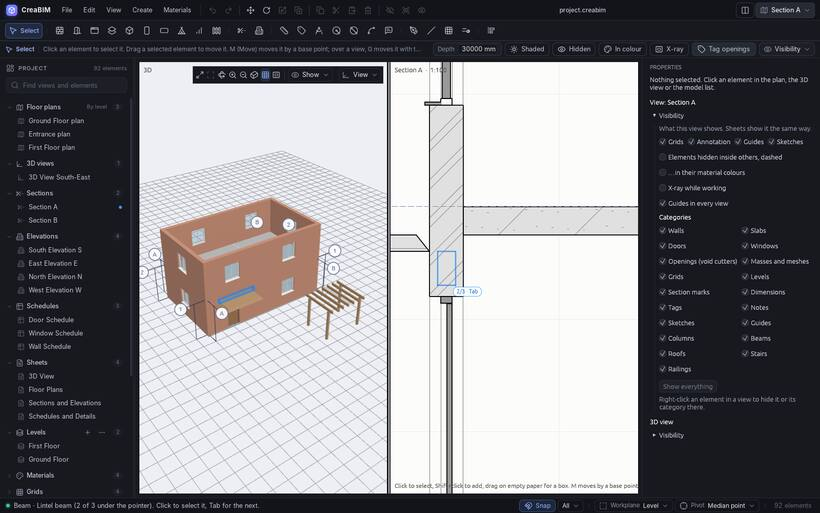
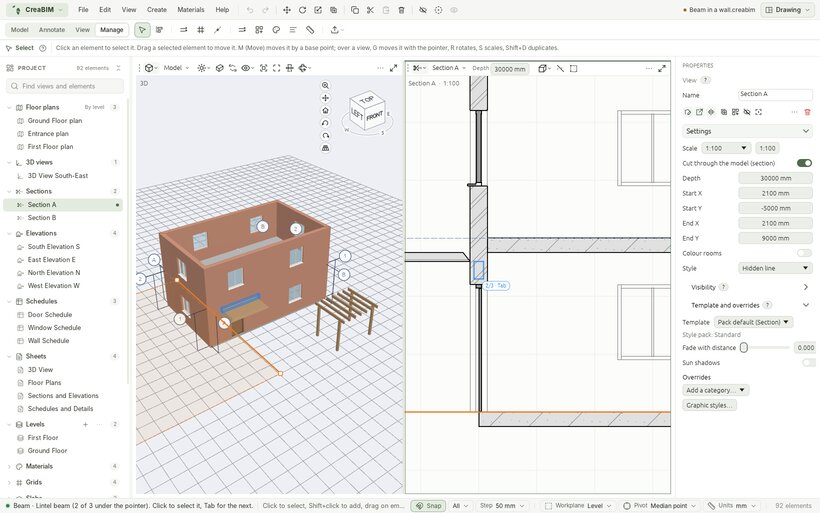
Retake the Help pictures in the new interface
All 27 images in crates/creabim-app/help/img are new screenshots of the
light interface, same names and sizes. Help text that still described
the removed orange flip arrows on doors and walls now points to Space,
Shift+Space and the Flip buttons; the roof picture's caption matches
the starter house it now shows.

Claude-Session: https://claude.ai/code/session_01RSXXda4aqQmEUBoCyFr82H

diff --git a/docs/KNOWN_GAPS.md b/docs/KNOWN_GAPS.md
@@ -347,6 +347,10 @@ Gaps reported by work that is still a pull request go here until it merges, then
 
 ## Recently fixed
 
+**Help pictures (`claude/project-thread-2a2eta`, 2026-11-05):**
+
+- All 27 pictures in the Help guide are retaken in the new light interface. The door and wall pages no longer mention the orange flip arrows, which are gone: flips are `Space`, `Shift+Space` and the Flip buttons in Properties.
+
 **In Brief 02, Phase 4, item 2, drawing on any face (`claude/project-thread-2a2eta`, 2026-11-05;** screenshots in [evolution/brief02-phase4](evolution/brief02-phase4)**):**
 
 - In the 3D view, Extrusion, Void, Sweep, Slab and Wall opening draw on the face under the pointer (or the workplane). An extrusion or void keeps its plane and runs square to it: a void on a sloped roof cuts square into the slope. A sweep's path runs on the face with its profile standing out of it. A slab goes on a level face. A wall opening is the rectangle around what is drawn on a wall face (3.5).

diff --git a/crates/creabim-app/help/doors-windows.md b/crates/creabim-app/help/doors-windows.md
@@ -19,11 +19,11 @@ Select one, then:
 
 A door has a **hand** (which jamb the hinges are on) and a **swing** (which side it opens to). *Properties* reads, for example, *Hung right, in*.
 
-- `Space`, or the arrow across the wall, flips the swing.
-- `Shift+Space`, or the arrow along the wall, flips the hand.
-- A window flips inside and outside with `Space` or its arrow.
+- `Space`, or *Flip swing* in *Properties*, flips the swing.
+- `Shift+Space`, or *Flip hand*, flips the hand.
+- A window flips inside and outside with `Space`.
 
-![A door's flip arrows](img/door-flip.jpg)
+![A selected door, with Flip hand and Flip swing in Properties](img/door-flip.jpg)
 
 ## Tags and schedules
 

diff --git a/crates/creabim-app/help/start-openings.md b/crates/creabim-app/help/start-openings.md
@@ -11,7 +11,7 @@ Doors and windows live *in* a wall. They cut their own opening, and they move wi
 
 - With the **Select** tool, click a door or window. Set its *Width*, *Height* and *Sill* (how high a window starts above the floor) in *Properties*.
 - Drag it along its wall to move it.
-- Press `Space` to flip which way a door opens. `Shift+Space` flips its hinge side. Or click the orange flip arrows beside it in the plan.
+- Press `Space` to flip which way a door opens. `Shift+Space` flips its hinge side. Or use *Flip swing* and *Flip hand* in *Properties*.
 
 More: [Doors and windows](doors-windows). For a hole with nothing in it, see [Holes, wall openings and shafts](holes).
 

diff --git a/crates/creabim-app/help/walls.md b/crates/creabim-app/help/walls.md
@@ -34,7 +34,6 @@ Pick it in the tool options before drawing, or in *Properties* afterwards.
 Every wall has an exterior side. While drawing, `Space` (or *Exterior left*) chooses which side of the line it goes on; a tick in the preview shows it. To flip a wall later:
 
 - press `Space` with it selected;
-- click the orange flip arrow beside it in the plan;
 - use *Flip* in *Properties*, or *Flip wall* in the right-click menu.
 
 The wall turns about its location line, and its doors and windows turn with it.

diff --git a/crates/creabim-app/help/start-floors-roofs.md b/crates/creabim-app/help/start-floors-roofs.md
@@ -17,7 +17,7 @@ Other ways to draw it: **Polygon** (`1`, click each corner), **Rectangle** (`2`,
 3. In the bar, choose its shape: **Flat**, **Mono-pitch**, **Gable** or **Hip**, and its **Pitch** (the slope in degrees).
 4. Draw its outline like a slab: **Rectangle** round the house is the quickest.
 
-![Roofs on the sample house](img/roofs.jpg)
+![Roofs on the starter house](img/roofs.jpg)
 
 The roof's overhang, thickness and which edges are eaves are in its *Properties*. See [Roofs](roofs).
 

diff --git a/crates/creabim-app/help/roofs.md b/crates/creabim-app/help/roofs.md
@@ -10,7 +10,7 @@
    - **Hip**: slopes on every side
 3. Draw its outline like a slab: `1` Polygon, `2` Rectangle, `3` Fill room, `4` From sketch.
 
-![A hip roof and a mono-pitch terrace roof](img/roofs.jpg)
+![The starter house: a gable roof, and a flat roof that runs on over the terrace](img/roofs.jpg)
 
 ## Changing a roof
 
